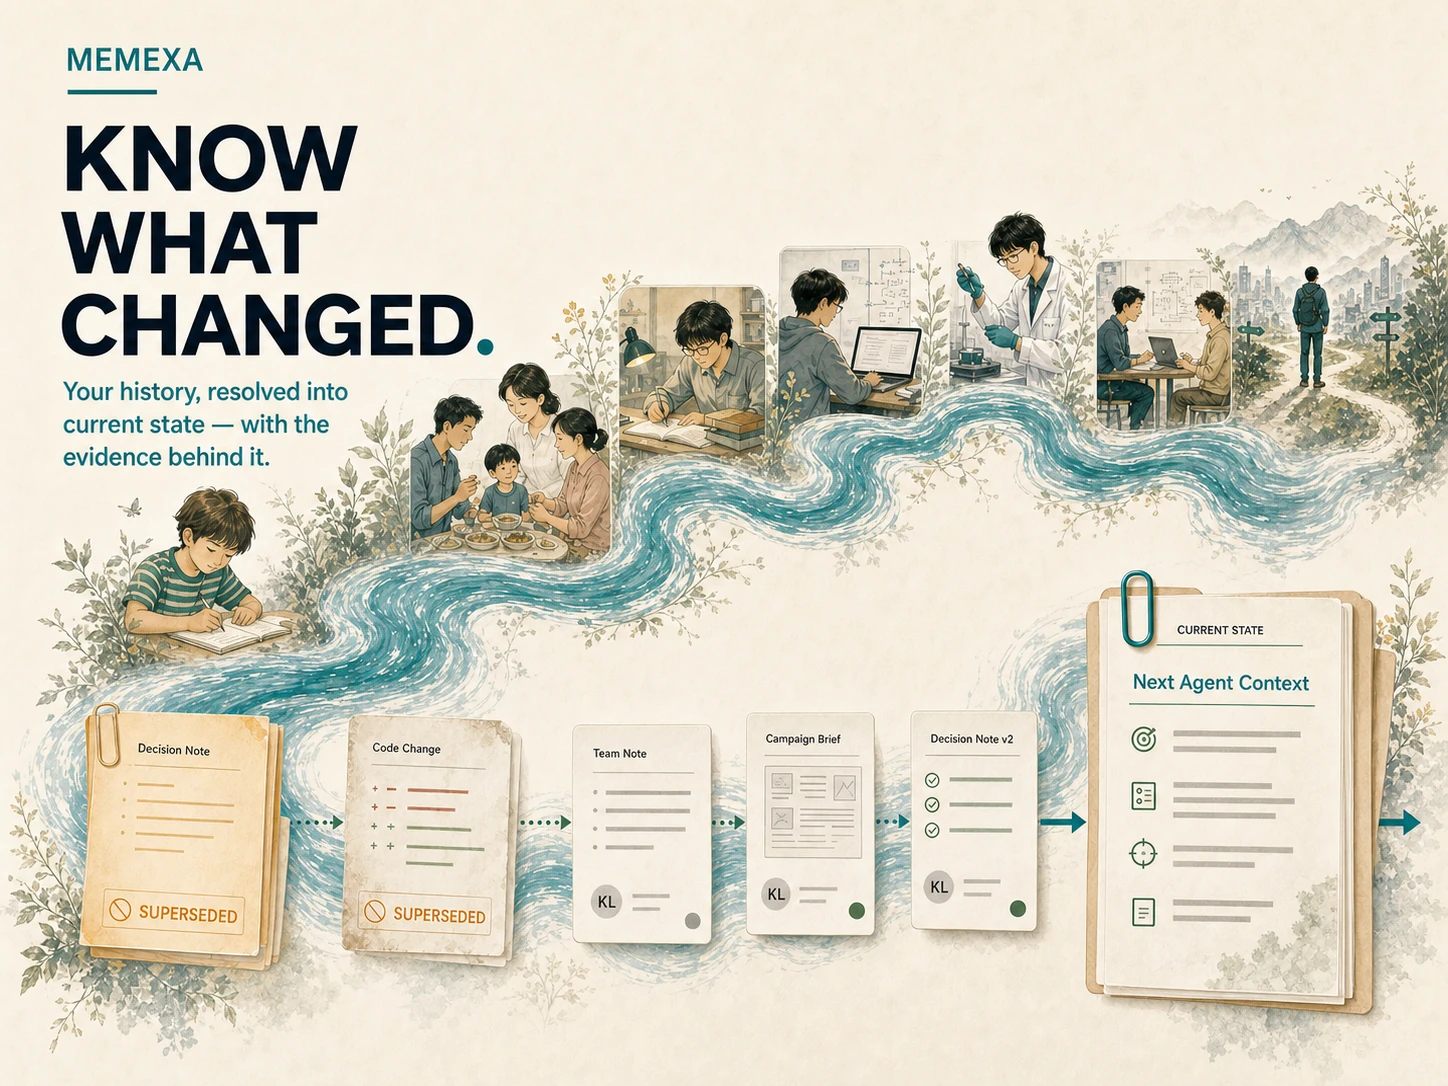
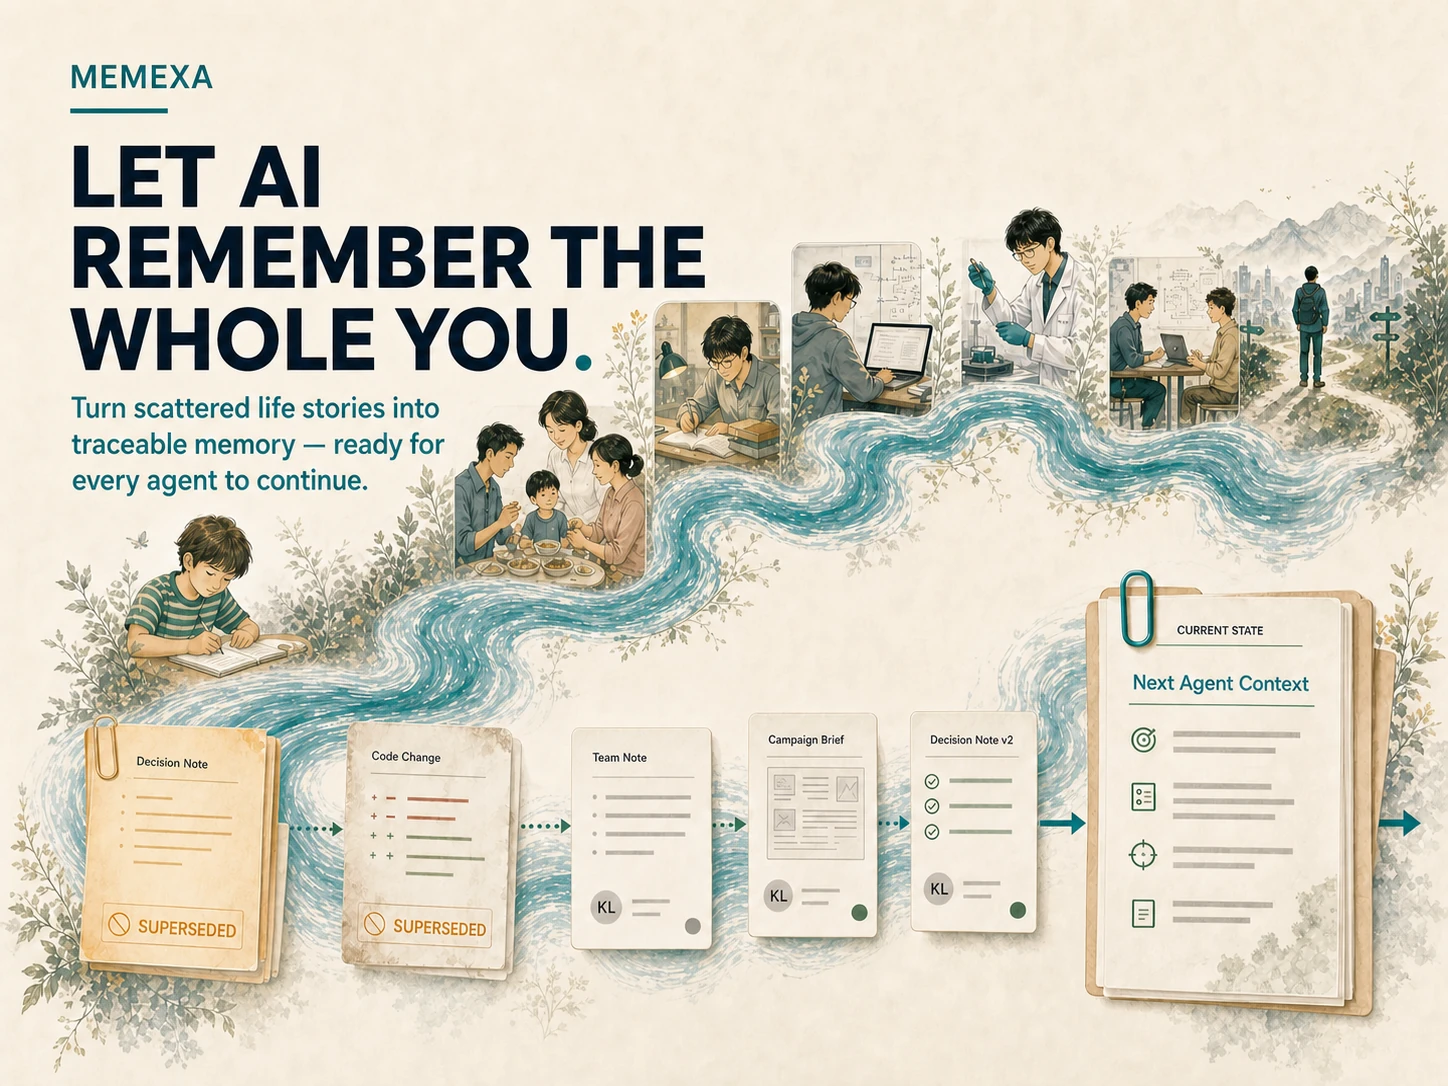
docs: simplify hero promise (#34)

diff --git a/README.zh.md b/README.zh.md
@@ -1,7 +1,7 @@
 <p align="center">
   <picture>
     <source media="(max-width: 640px)" srcset="docs/assets/readme/memexa-hero-state-zh-mobile.webp">
-    <img src="docs/assets/readme/memexa-hero-state-zh.webp" alt="Memexa 镜我把不断变化的历史整理成当前状态，并为下一位 Agent 保留证据" width="100%">
+    <img src="docs/assets/readme/memexa-hero-state-zh.webp" alt="Memexa 镜我让 AI 记得完整的你，并把人生经历整理成可追溯、可继续的记忆" width="100%">
   </picture>
 </p>
 

diff --git a/README.md b/README.md
@@ -1,7 +1,7 @@
 <p align="center">
   <picture>
     <source media="(max-width: 640px)" srcset="docs/assets/readme/memexa-hero-state-en-mobile.webp">
-    <img src="docs/assets/readme/memexa-hero-state-en.webp" alt="Memexa resolves changing history into verified current state and evidence for the next agent" width="100%">
+    <img src="docs/assets/readme/memexa-hero-state-en.webp" alt="Memexa helps AI remember the whole you through traceable memory across every stage of life" width="100%">
   </picture>
 </p>
 
